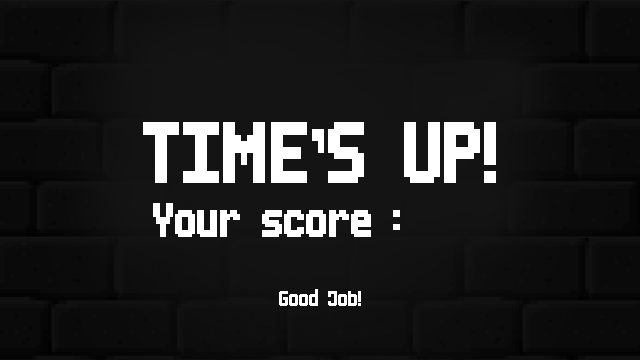
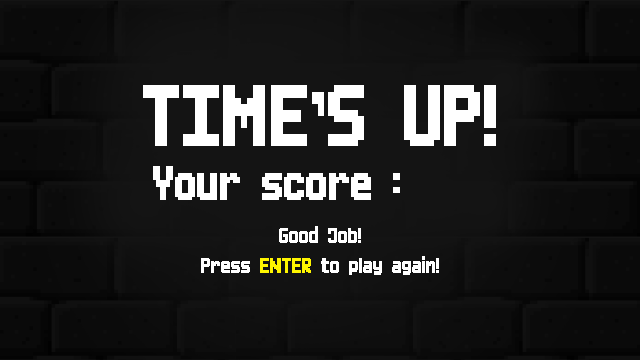
Added functionality for playing again.

Changed region(s): [[0.2188, 0.2139, 0.7812, 0.6722], [0.3125, 0.7028, 0.6875, 0.7639], [0.4375, 0.7944, 0.5625, 0.8556]]

diff --git a/main.py b/main.py
@@ -70,7 +70,7 @@ def draw_end(score):
     theScore = END_TEXT.render(
         str(score), 1, GREEN
     )
-    WIN.blit(theScore, (424,202))
+    WIN.blit(theScore, (424,167))
     pyg.display.update()
 
 class Enemy:
@@ -149,44 +149,56 @@ def main():
     monster = Enemy()
     menu = True
     done = False
+    repeat = False
+    start_ticks = pyg.time.get_ticks()
     while run:
         clock.tick(FPS)
 
 
-        ## Main Menu Here ##
-        while menu:
+        ## -- Main Menu Here -- ##
+        while menu and not repeat:
             draw_title()
             for event in pyg.event.get():
                 if event.type == pyg.QUIT:
                     run=False
+                    menu=False
+                    break
                 if event.type == pyg.KEYDOWN:
                     if event.key == pyg.K_RETURN:
                         menu=False
                         #Start timer when game begins.
                         start_ticks=pyg.time.get_ticks()
-        ## Main Menu END ##
+        ## -- Main Menu END -- ##
 
 
+        ## -- Game -- ##
 
-        ## Main Game ##
-
-        timeLeft = round(30 - (pyg.time.get_ticks()-start_ticks)/1000, 1)
+        timeLeft = round(5 - (pyg.time.get_ticks()-start_ticks)/1000, 1)
 
         if timeLeft <= 0 :
             done = True
+            start_ticks=pyg.time.get_ticks()
         
 
         for event in pyg.event.get():
 
             if event.type == pyg.KEYDOWN:
                 if event.key == pyg.K_RETURN:
+                    #Hit enter to play again.
+                    if done and ((pyg.time.get_ticks()-start_ticks)/1000 > 2):
+                        score = 0
+                        done = False
+                        monster = Enemy()
+                        playerAnswer = ""
+                        start_ticks=pyg.time.get_ticks()
+
                     try:
                         if int(playerAnswer) == monster.answer :
                             score +=1
                             monster = Enemy()
                             playerAnswer = ""
                     except ValueError:
-                        print("Value Error. Probably put a negative sign in the wrong place...")
+                        print("Value Error. Probably put a negative sign in the wrong place or hit enter when it was empty...")
                         
                     
                         
@@ -196,10 +208,8 @@ def main():
             if event.type == pyg.QUIT:
                 run=False
 
-        print(playerAnswer)
         if not done:
             draw_window(player,monster,playerAnswer,score,timeLeft)
         else: draw_end(score)
         
-
 main()
